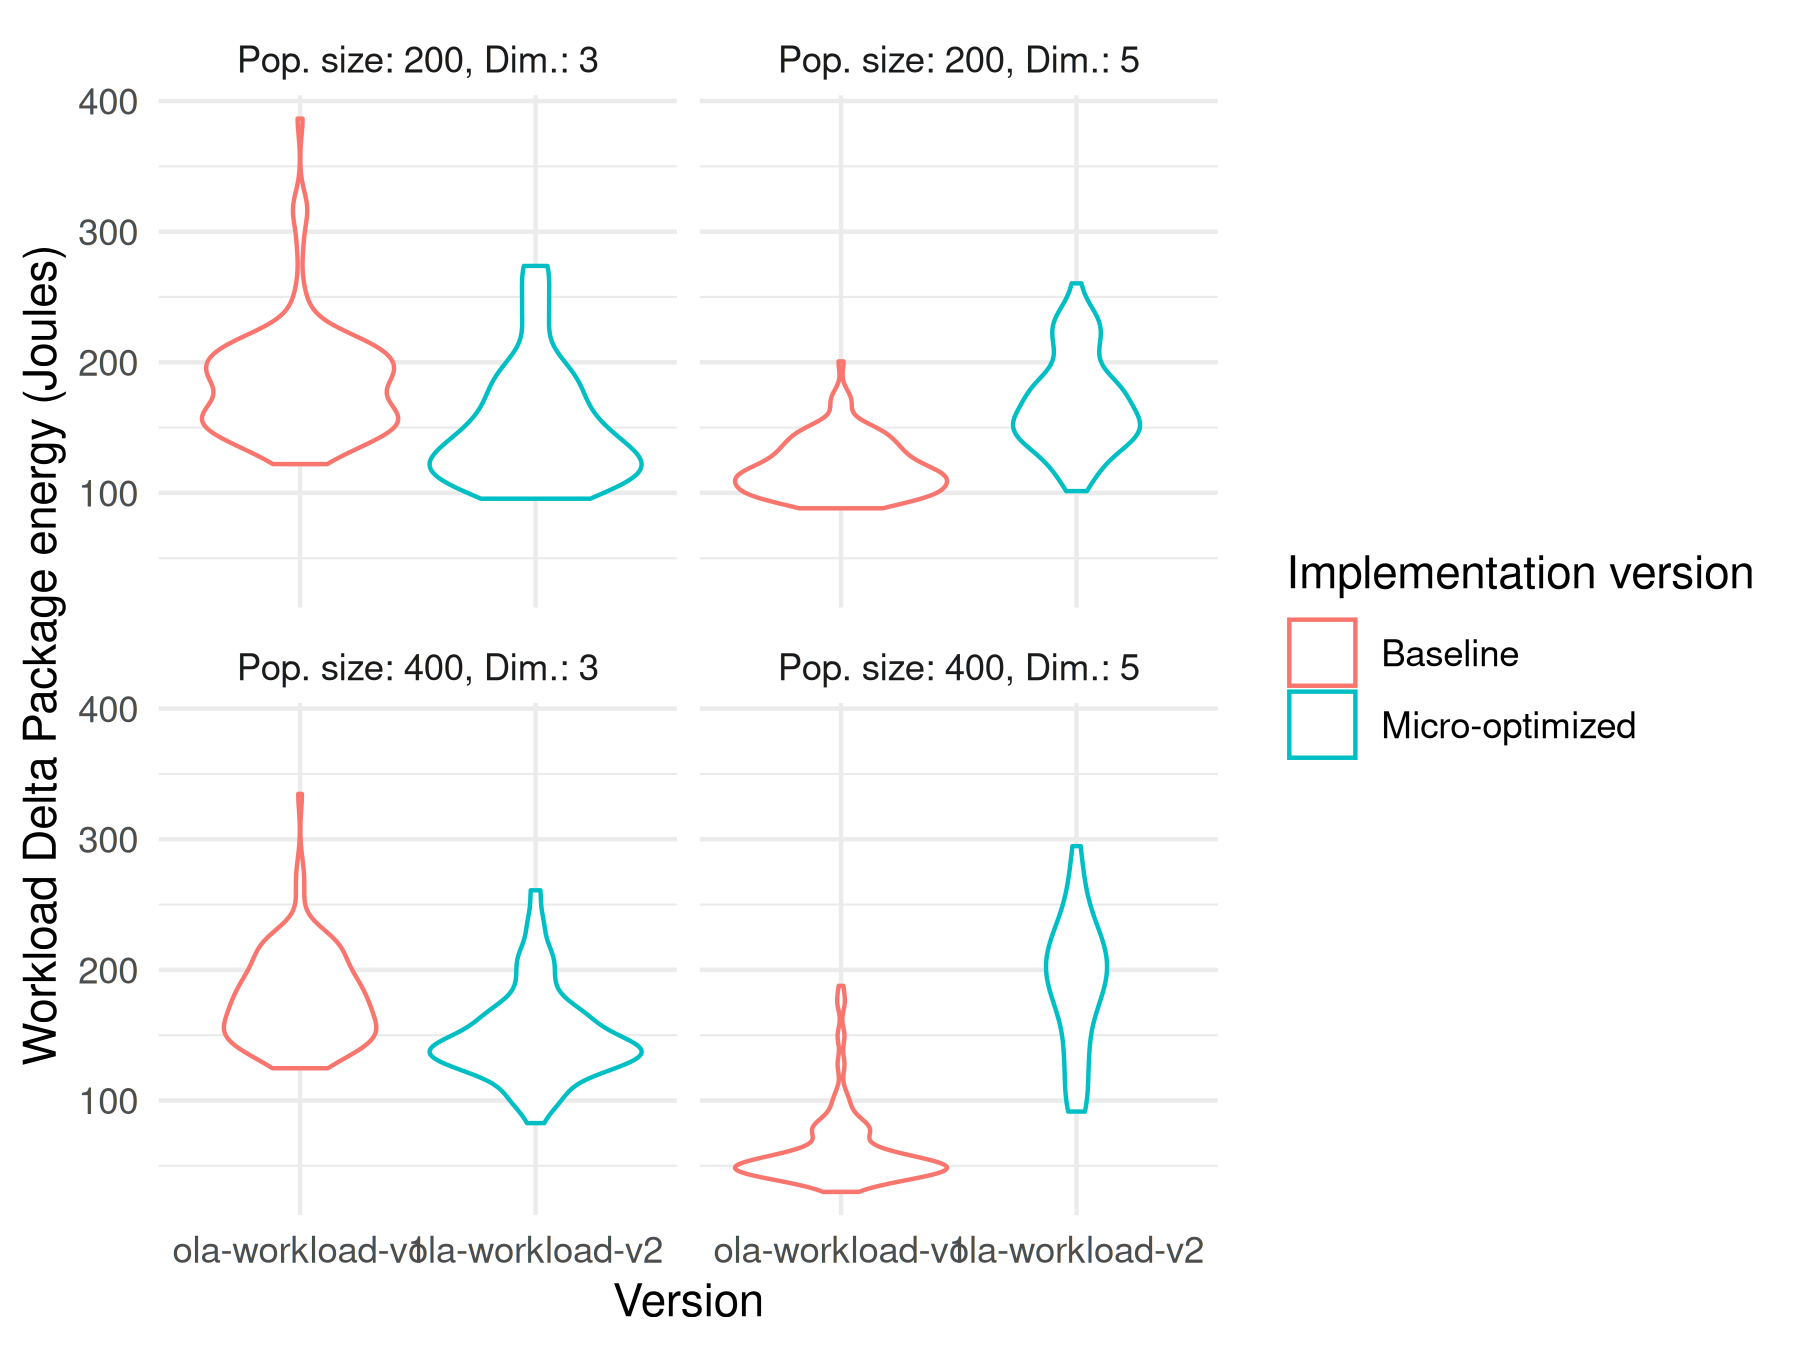
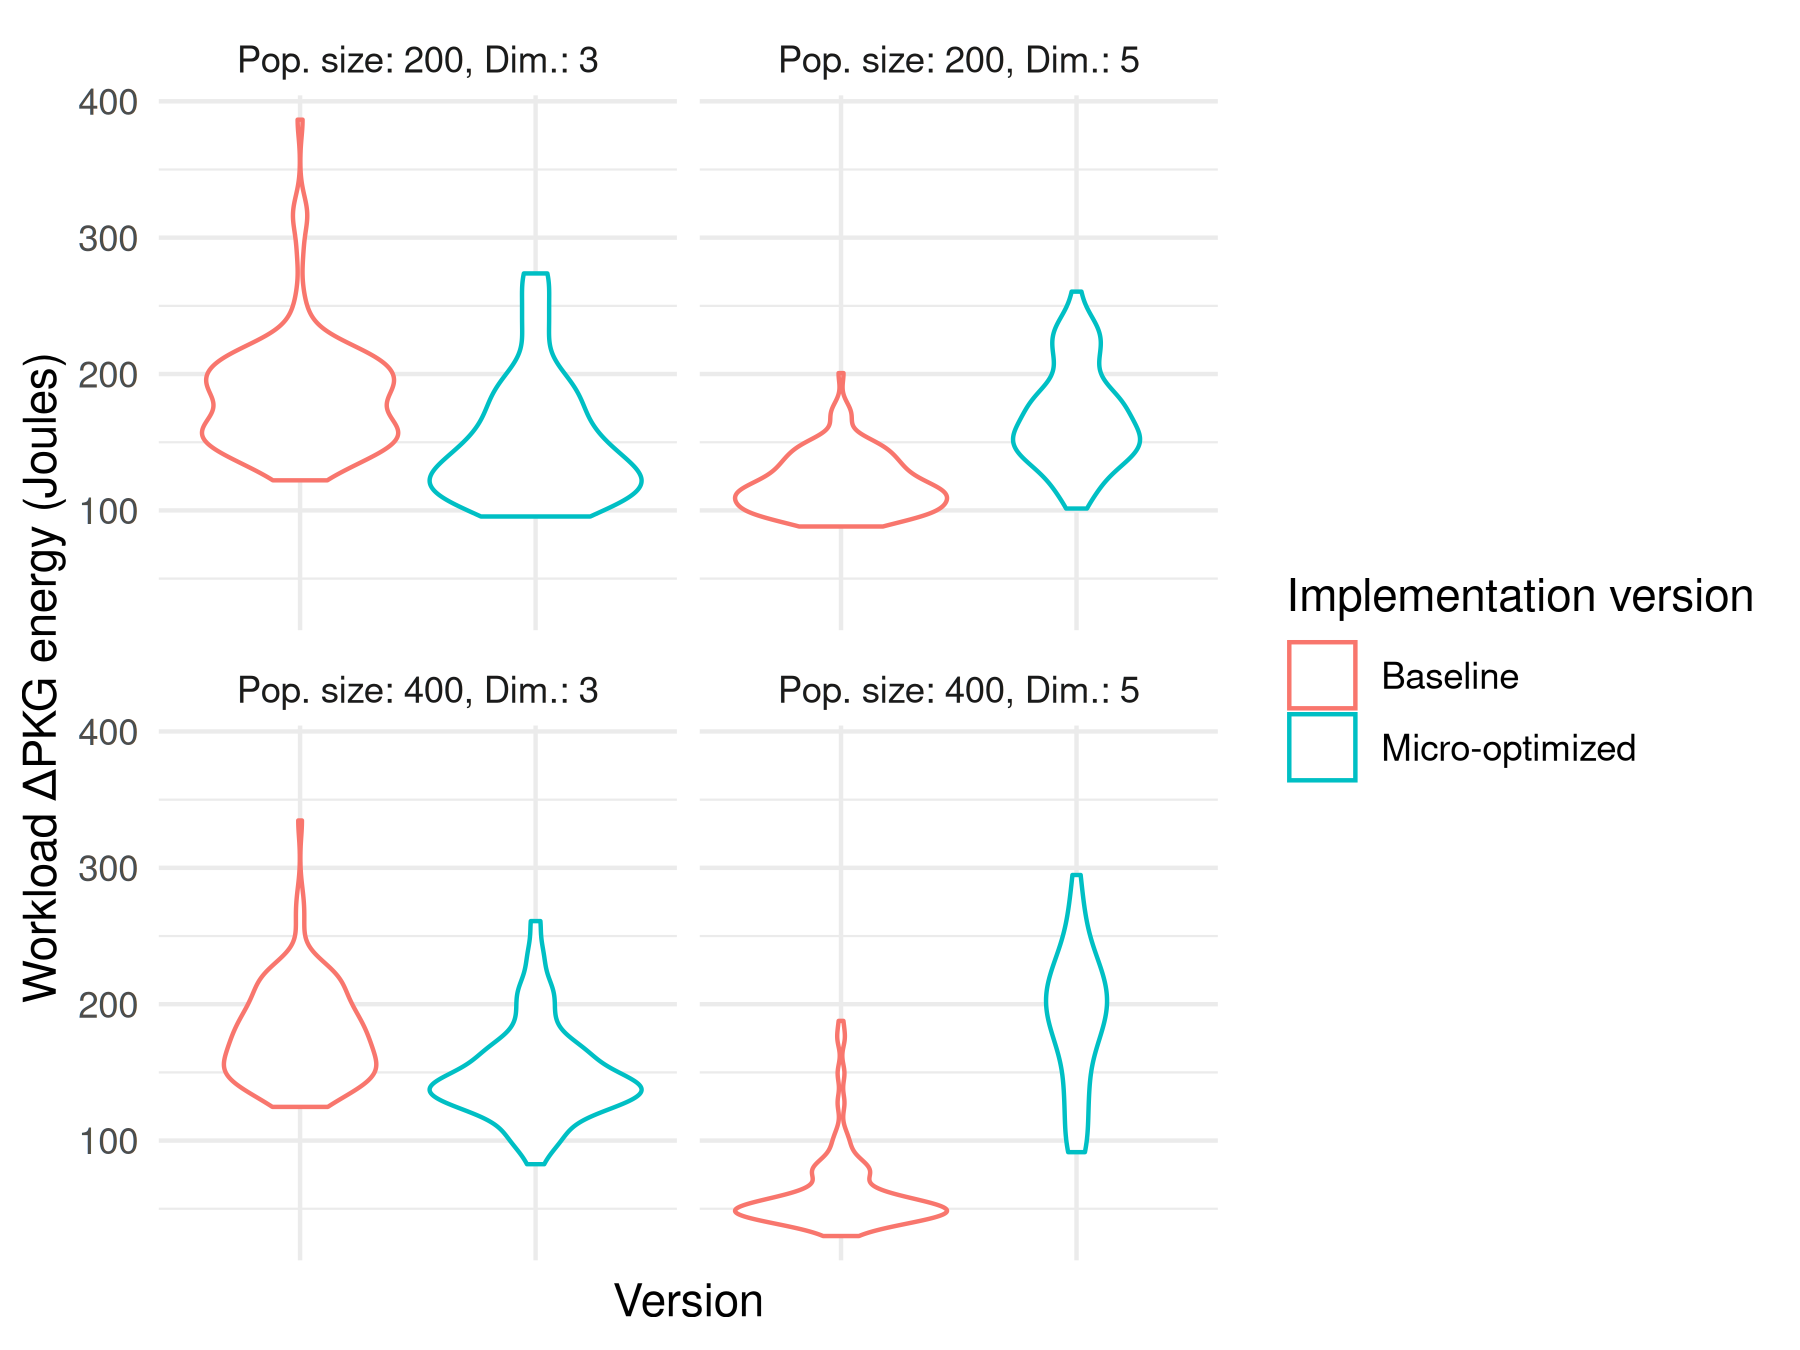
#53 baseline plots microoptimization

diff --git a/preso/index.html b/preso/index.html
@@ -101,6 +101,21 @@
                         it's spending more energy, in reality it's expanding the
                         range of measurements over what was measured before.</aside>
                 </section>
+
+                <section><h1>✌ Improve little by little</h1>
+                    <h2 class="fragment">📏 But always measure after trying to
+                        improve</h2>
+                    <img class="fragment"
+                         src="img/microptimization-violin-plot.png" height="1000"
+                         alt="Microoptimization">
+                    <aside class="notes">The King Minos palace was not built all
+                    at once, but in different, incremental stages as need arose,
+                    at the same time improving building techniques to allow for
+                    more floors. A case of improvement in small increments. 
+                        However, it does not work as expected. The
+                        workload gets worse, spends more energy, after
+                        microoptimization</aside>
+
 	    </div>
 	</div>
 
